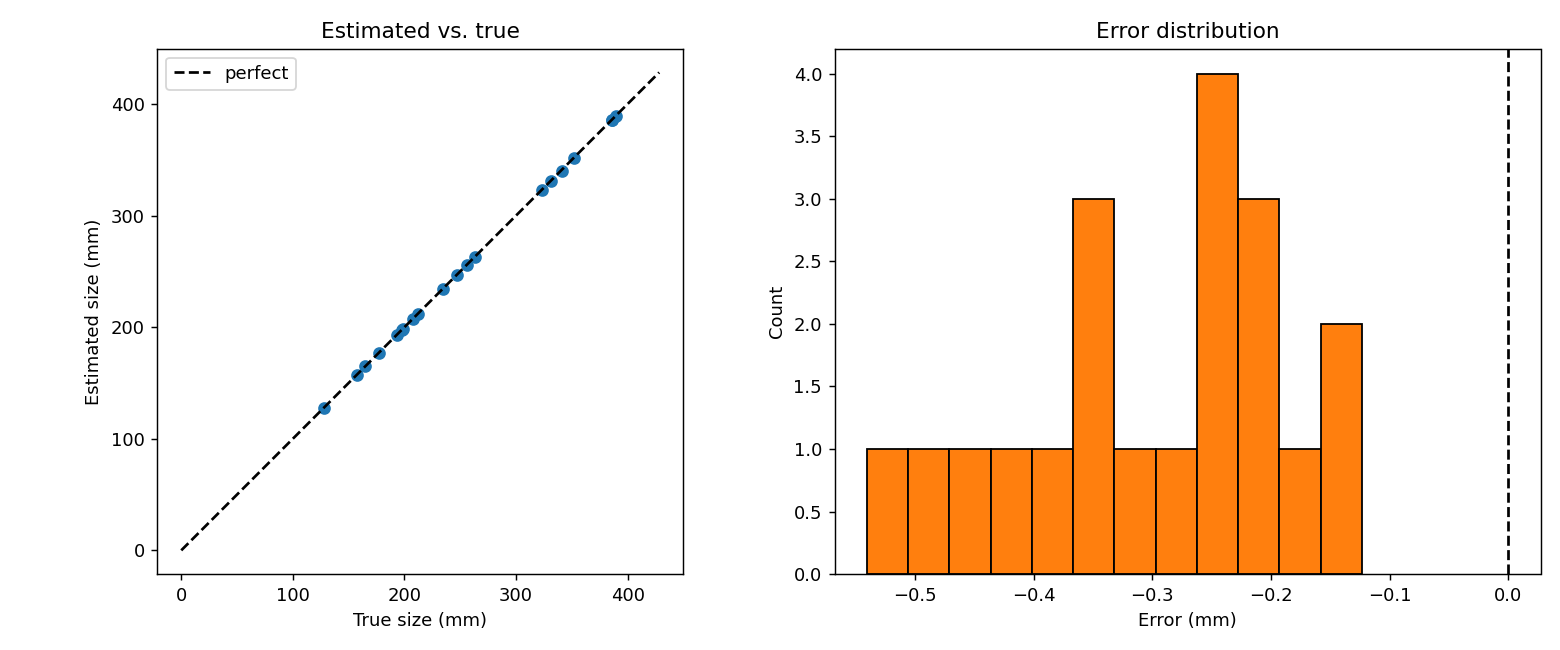
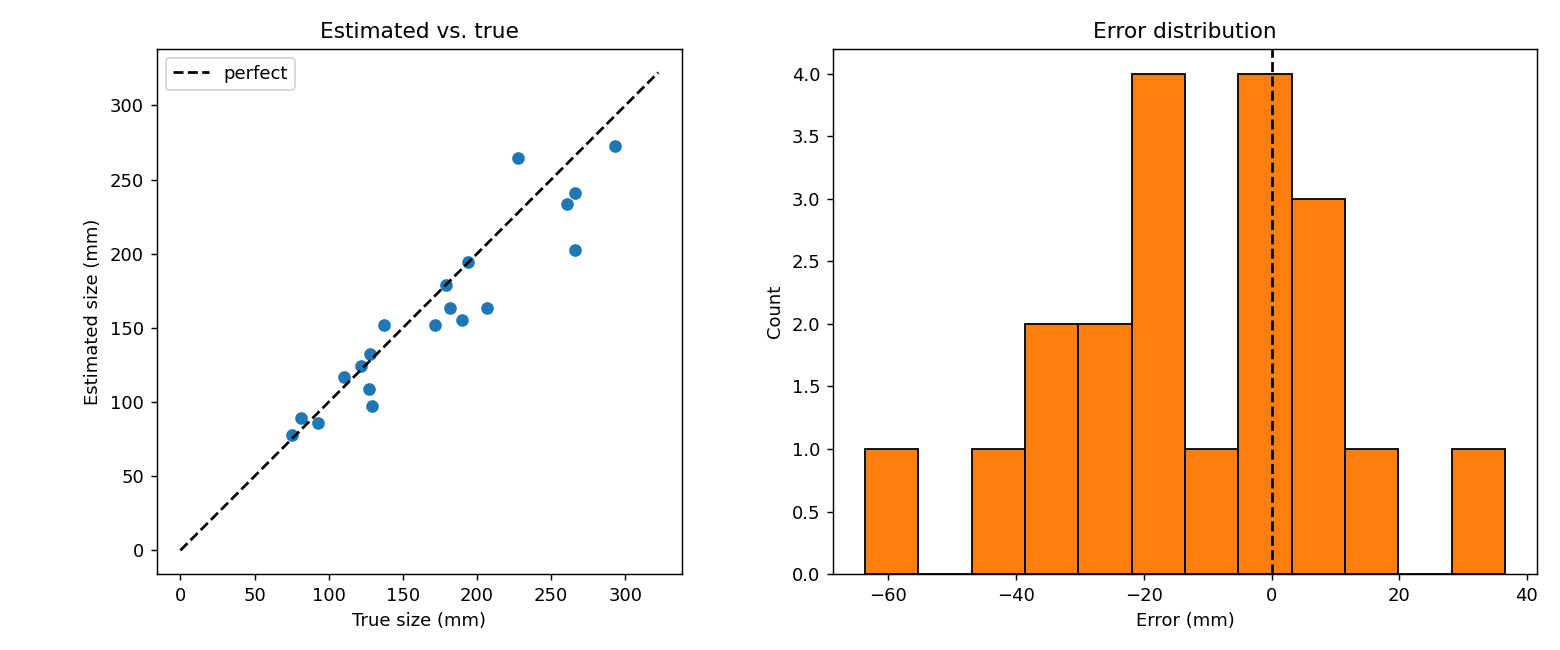
Finalize Step 3: 16:9 calibration + real validation (10 obj, MAPE 10.6%), organize data, cleanup scratch

diff --git a/app.py b/app.py
@@ -29,6 +29,7 @@ CAL_IMG_DIR = os.path.join(HERE, "data", "calibration_images")
 VAL_IMG_DIR = os.path.join(HERE, "data", "validation_images")
 OUT = os.path.join(HERE, "outputs")
 CALIB_PATH = os.path.join(OUT, "calibration.npz")
+VALCALIB_PATH = os.path.join(OUT, "calibration_2160.npz")  # 16:9 mode = validation photos
 LOG_PATH = os.path.join(HERE, "measurements_log.csv")
 RESULTS = os.path.join(OUT, "results")
 LOG_HEADER = ["image", "object", "dimension", "true_size_mm",
@@ -177,7 +178,8 @@ with tabs[3]:
     if st.button("Run validation", type="primary"):
         log = os.path.join(OUT, "synthetic_measurements_log.csv") if use_syn_v else LOG_PATH
         try:
-            rows, stats = run_validation(CALIB_PATH, log, RESULTS)
+            val_calib = CALIB_PATH if use_syn_v else VALCALIB_PATH  # validation photos are 16:9
+            rows, stats = run_validation(val_calib, log, RESULTS)
             st.text(stats)
             plot = os.path.join(RESULTS, "error_plots.png")
             if os.path.exists(plot):
